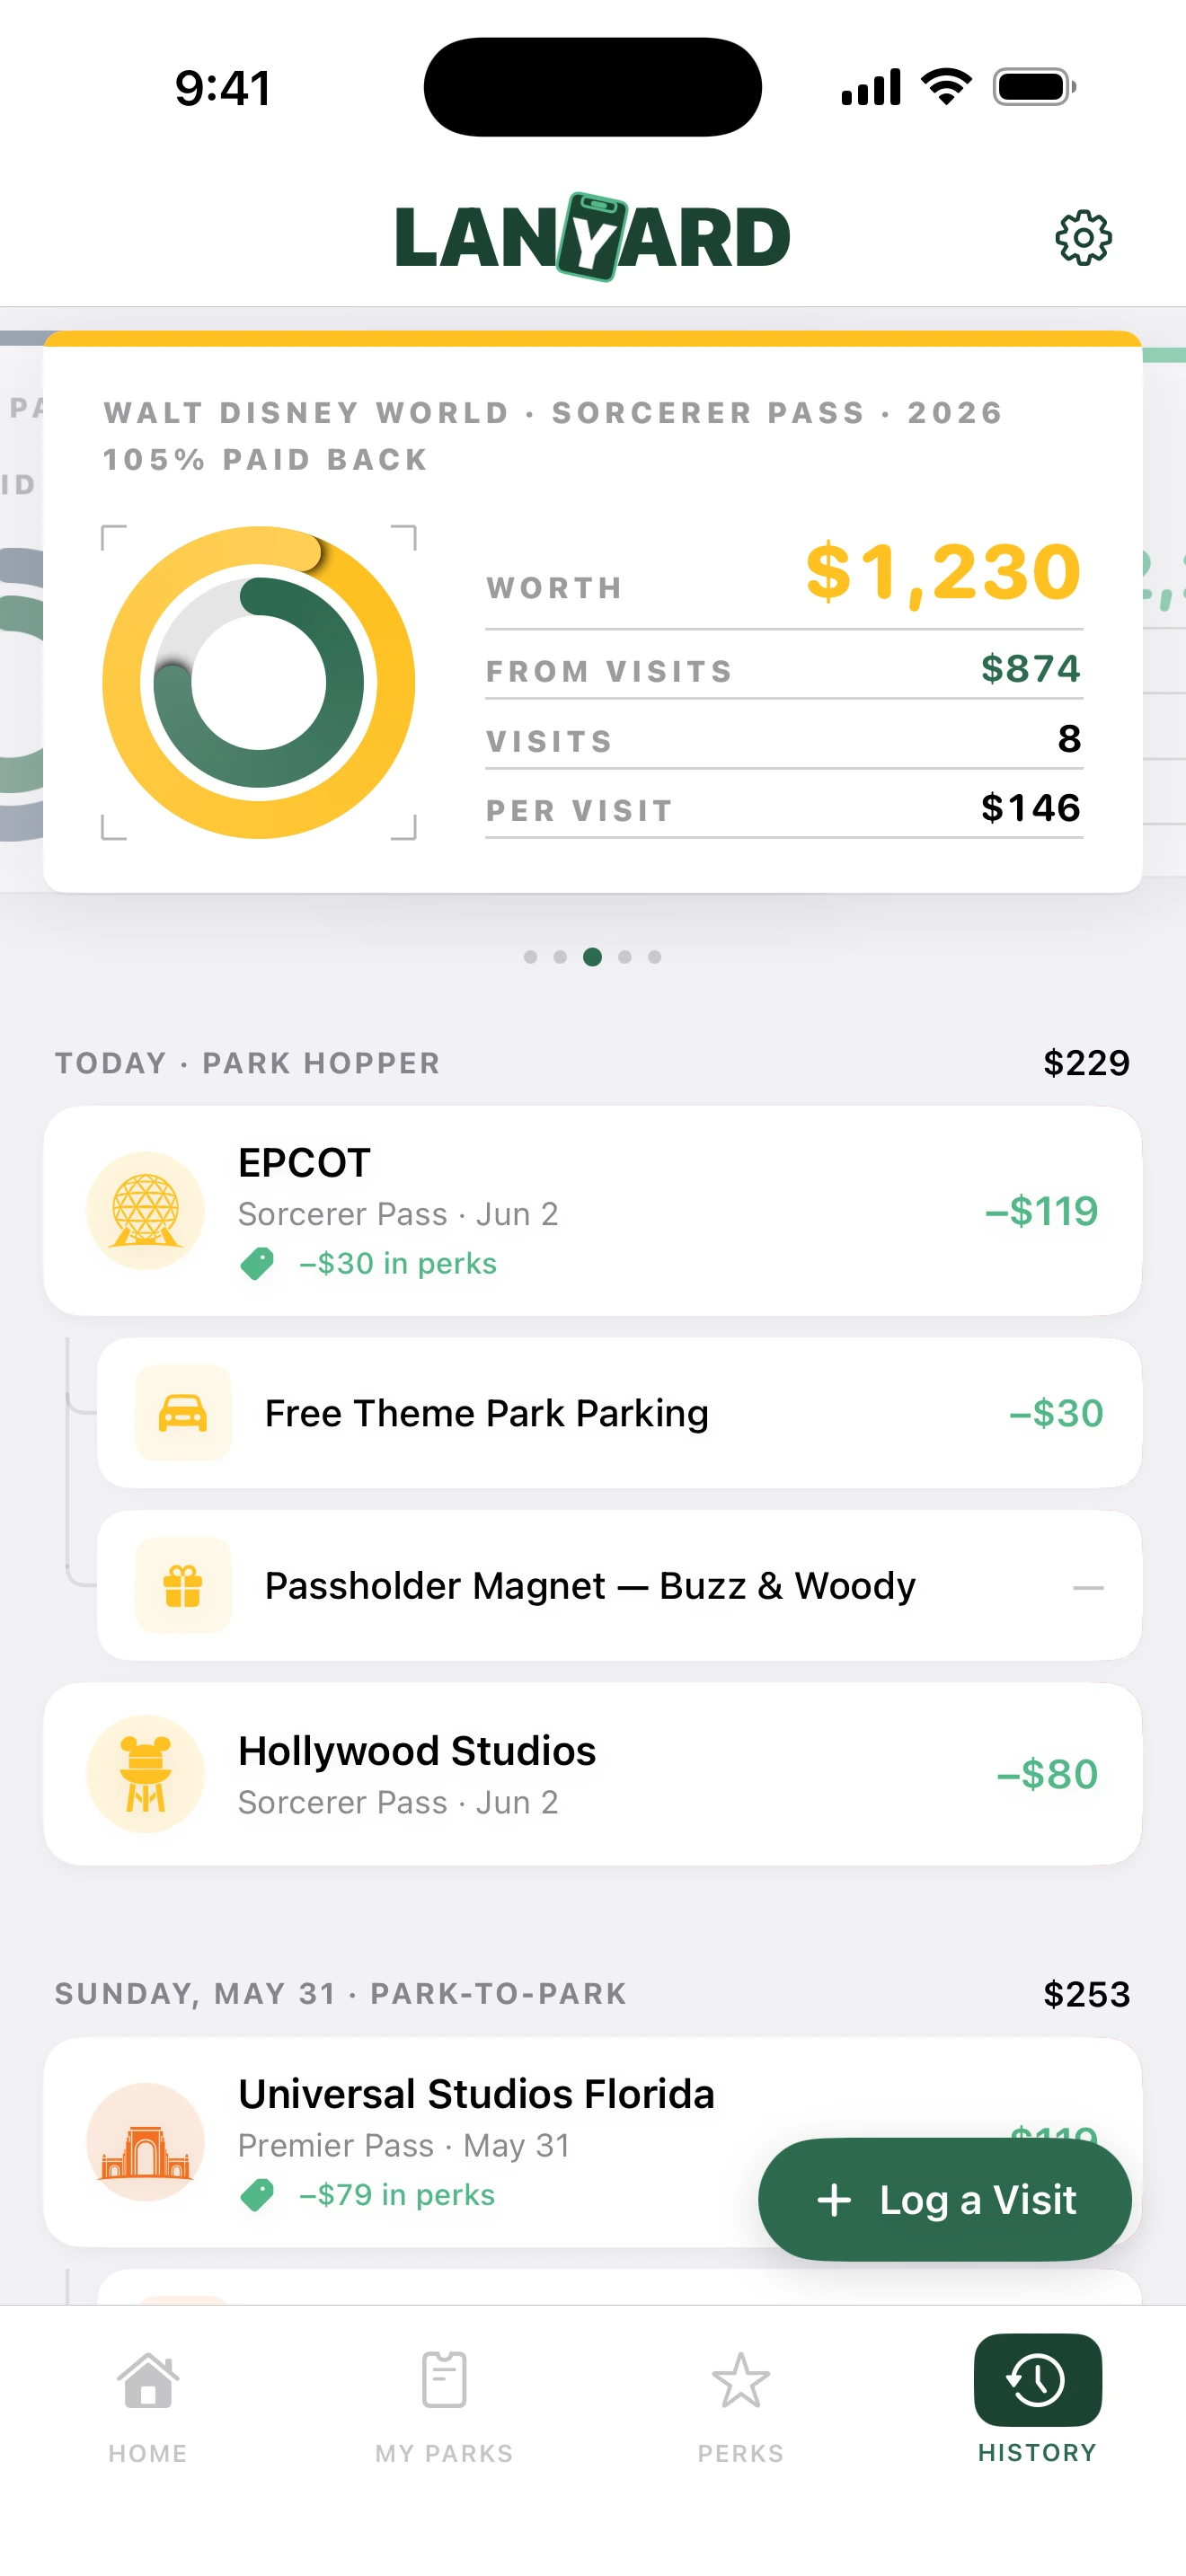
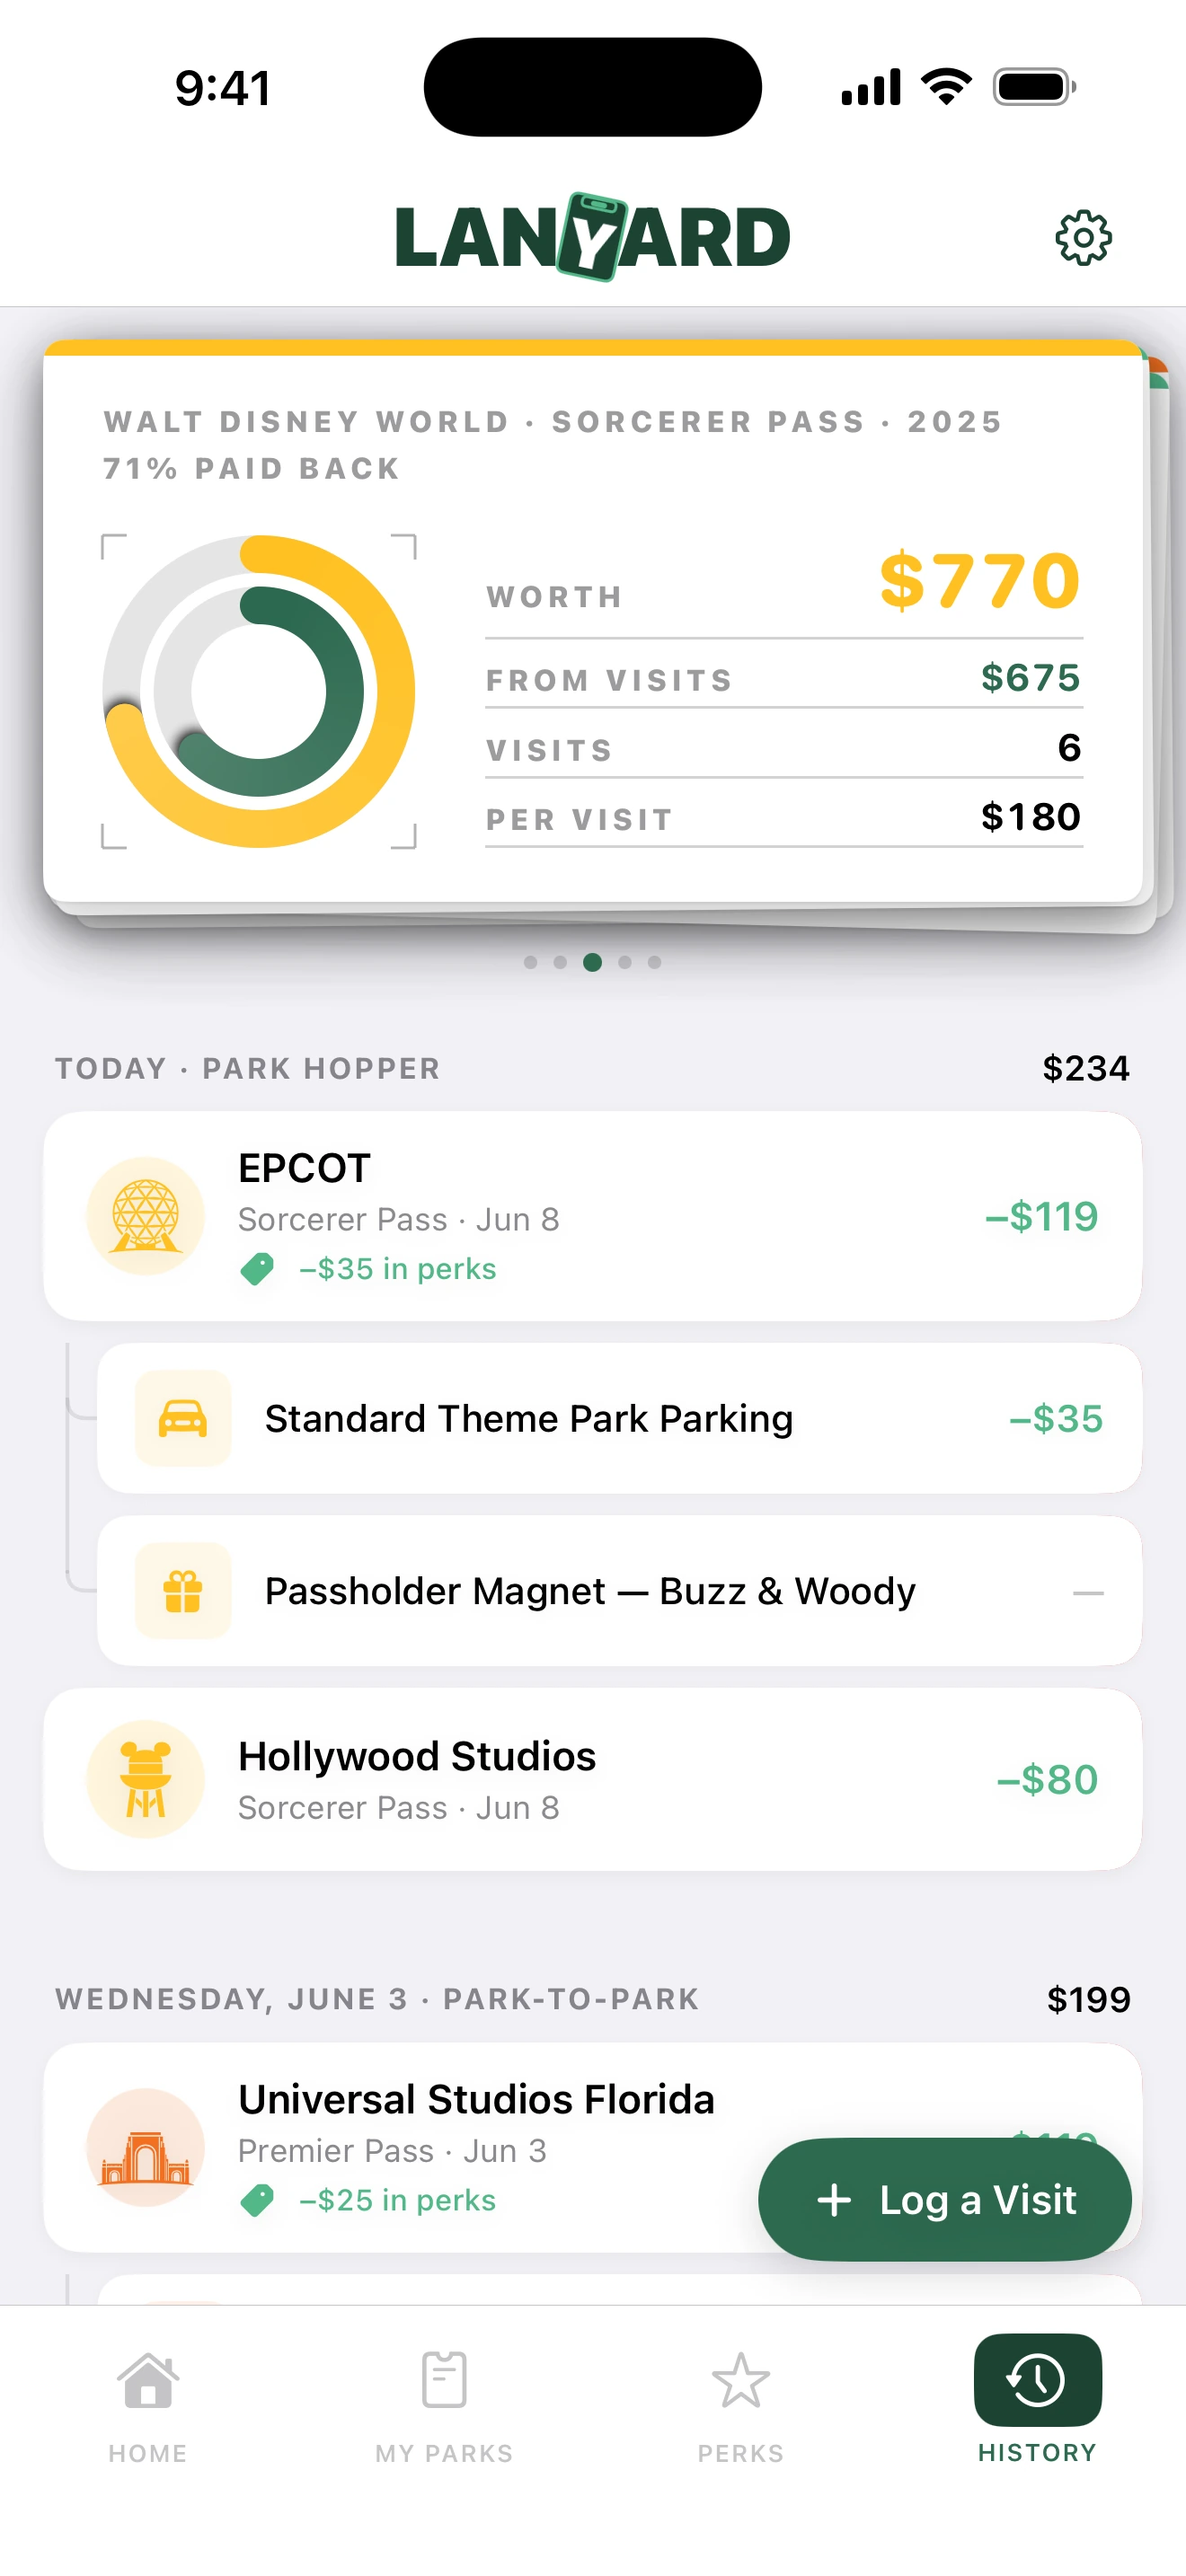
feat(landing): lead scroll-morph with Home "window" beat; refresh payback shot

diff --git a/src/data/acts.ts b/src/data/acts.ts
@@ -1,12 +1,17 @@
-// Act 2 content — the three feature beats the C→A scroll-morph tours.
-// Order mirrors the locked flow.html spike: lead with the value math
-// (Payback), then the two daily-utility tentpoles. Copy and screenshots
-// are data, not markup — swapping a beat or a headline is a one-line edit.
+// Act 2 content — the feature beats the C→A scroll-morph tours.
+// Order: lead with Home (the parallax "window into your parks"), then the
+// value math (Payback), then the planning tentpole (Calendar).
 //
-// NOTE (for Dan): website_plan §1b lists the Act-2 order as
-// Calendar → Perks → Payback (ending on the value tentpole), but the
-// de-risked flow.html spike leads with Payback as the hook. This build
-// follows the spike. Flag if you want the §1b ordering instead.
+// ⚠️ NOT a pure one-line add/remove: ScrollMorph hardcodes the dwell windows
+// and scroll-track height for exactly THREE beats — the idx math in
+// ScrollMorph.tsx update() (thresholds at 1.4vh / 2.5vh) and
+// `.morph { height: 400vh }` in ScrollMorph.css. Reordering or swapping the
+// THREE beats below is a one-line edit here; going to 4+ requires generalizing
+// both off ACTS.length first.
+//
+// Perks was the old 3rd morph beat. It moved OUT of the morph (kept tight) and
+// is slated for its own lower-page feature section. Its draft copy is parked
+// below as PERKS_BEAT so it's ready to drop in when that section is built.
 
 export interface Act {
   id: string;
@@ -20,13 +25,23 @@ export interface Act {
 
 export const ACTS: Act[] = [
   {
+    id: 'home',
+    kicker: 'A window to your parks',
+    headline: 'Open the app, look outside.',
+    body:
+      'Live sky, real weather and every park you hold, framed like a window. One glance reads the whole day.',
+    screen: '/assets/screen-home.webp',
+    screenAlt:
+      'Lanyard home screen: a parallax window onto your parks with live sky, weather, park hours and good-to-go status.',
+  },
+  {
     id: 'payback',
     kicker: 'Worth every visit',
     headline: 'Watch your pass pay for itself.',
     body:
       'Every visit and perk adds up to a number you can actually see. The day it breaks even, you’ll know.',
     screen: '/assets/screen-payback.webp',
-    screenAlt: 'Lanyard payback screen showing a pass that has paid back 105% of its cost.',
+    screenAlt: 'Lanyard payback screen showing a pass that has paid back 71% of its cost.',
   },
   {
     id: 'calendar',
@@ -37,13 +52,16 @@ export const ACTS: Act[] = [
     screen: '/assets/screen-calendar.webp',
     screenAlt: 'Lanyard calendar screen showing events, blockouts and hours on one timeline.',
   },
-  {
-    id: 'perks',
-    kicker: 'At the park',
-    headline: 'Every perk. Every dollar back.',
-    body:
-      'Track the discounts, parking and freebies you actually use, and what they’ve saved you.',
-    screen: '/assets/screen-perks.webp',
-    screenAlt: 'Lanyard perks screen listing passholder discounts and the value each one has saved.',
-  },
 ];
+
+// Parked: the former Perks morph beat, pending its own lower-page section.
+// Not rendered by ScrollMorph. Kept here so the copy isn't lost.
+export const PERKS_BEAT: Act = {
+  id: 'perks',
+  kicker: 'At the park',
+  headline: 'Every perk. Every dollar back.',
+  body:
+    'Track the discounts, parking and freebies you actually use, and what they’ve saved you.',
+  screen: '/assets/screen-perks.webp',
+  screenAlt: 'Lanyard perks screen listing passholder discounts and the value each one has saved.',
+};